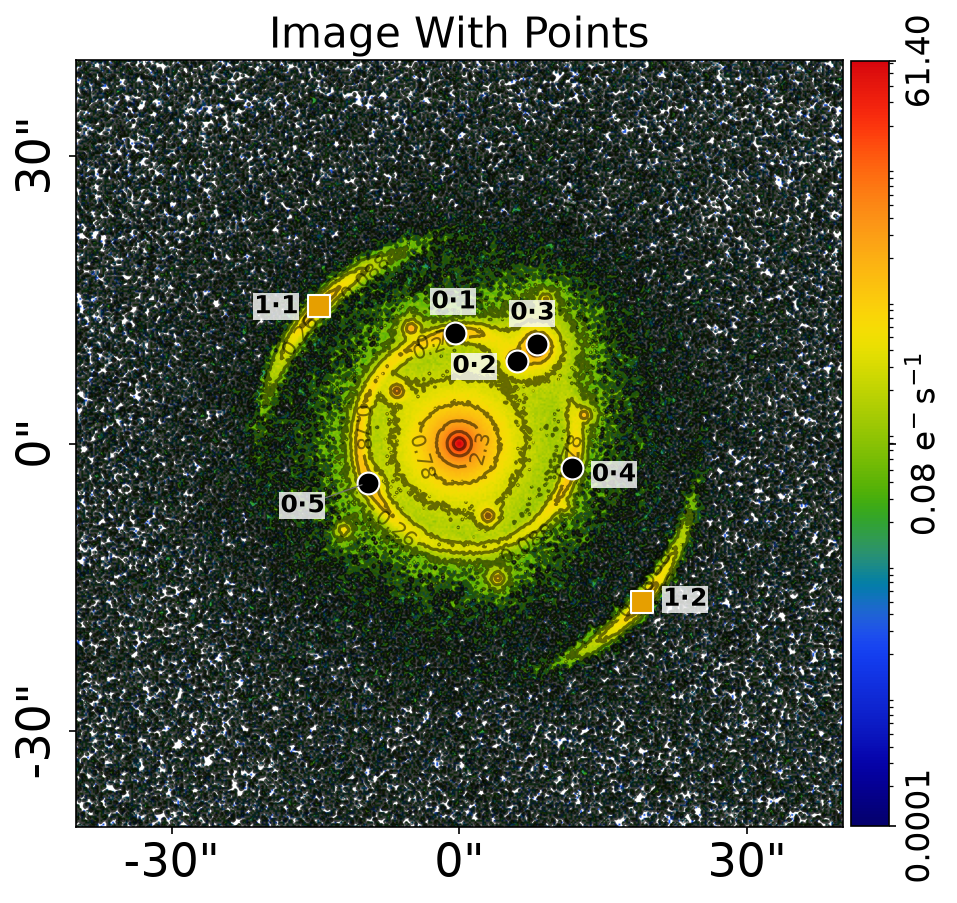
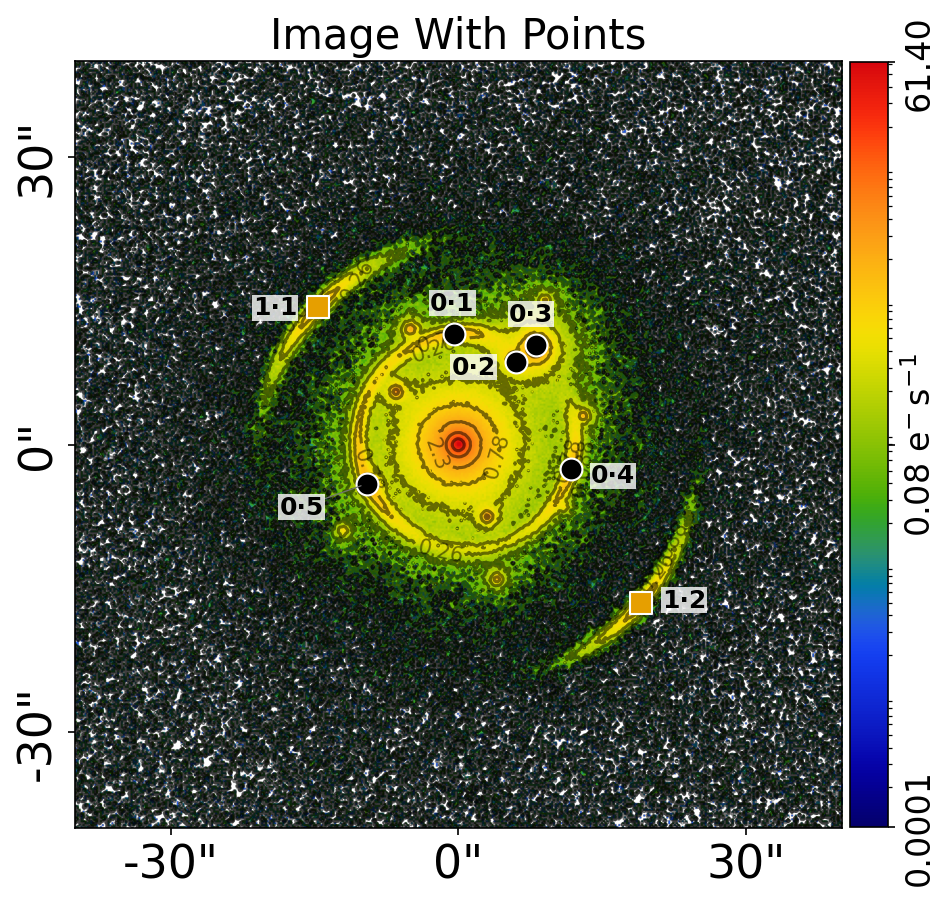
Render Simple cluster family fits in both planes

diff --git a/scripts/cluster/visualization.py b/scripts/cluster/visualization.py
@@ -16,14 +16,14 @@ Output tree (wiped at the start of every run)::
         image_with_points.png      <- every source's positions over the cluster image
         fit.png                    <- VisualizerPoint.visualize_combined: "Fit Positions" of
                                       every source, each source's critical curves at its own z
-        fit_per_image.png          <- one row per source: residual ranking (range shared by
-                                      both sources) / image-plane zoom / source plane
         fit_image_with_points.png  <- every source's positions and curves over the image
         point_0/ point_1/          <- each dataset's own figures (visualize_before_fit +
-                                      visualize): dataset.png, image_with_points.png, fit.png,
+                                      visualize): dataset.png, image_with_points.png,
                                       fit_per_image.png, fit_image_with_points.png and
                                       point_solver.png (the model's real multi-plane PointSolver
                                       refining onto this source's images)
+            fit.png                <- source-plane family fit from visualize_combined
+            fit_image_plane.png    <- image-plane family fit from visualize_combined
 
 The per-dataset ``visualize`` also writes the tracer and galaxy figures, which this repo does
 not track: they (and every other untracked file) are deleted, and ``dataset_point.png`` is
@@ -31,9 +31,11 @@ renamed ``dataset.png``.
 
 Dataset: ``dataset/cluster/simple`` (``point_0``: 5 images, ``point_1``: 2 images, 5 mas noise,
 and ``data.fits``: the cluster image, visualization only), from
-``scripts/misc/simulators/cluster.py``. The model is that simulator's TRUE model
-(``true_models/cluster.py``), fitted with the source-plane chi-squared
-(``FitPositionsSource``) the workspace cluster example uses, with free-centre point sources.
+``scripts/misc/simulators/cluster.py``. The model uses the simulator's lens and source galaxies
+(``true_models/cluster.py``) with the point_0 source y coordinate offset by 0.003 arcsec to show
+how the family figure diagnoses a small model error. The source-plane chi-squared
+(``FitPositionsSource``) matches the workspace cluster example. The image-plane family figures
+use ``FitPositionsImagePairRepeat``.
 
 Run from the repo root::
 
@@ -77,15 +79,16 @@ STEM = Path(__file__).stem
 dataset_path = ensure_dataset("cluster", workspace_root=REPO_ROOT)
 
 """
-__True Model__
+__Model__
 
-The simulator's galaxies, every parameter fixed: the prior-median instance IS the true model.
-Lens galaxies, scaling members and halo go in ``galaxies`` alongside the two sources.
+Lens galaxies, scaling members and halo go in ``galaxies`` alongside the two sources. Offset the
+first point source to demonstrate how a small model error can affect its images differently.
 """
+sources = tm.sources()
+y, x = sources[0].point_0.centre
+sources[0].point_0.centre = (y + 0.003, x)
 model = af.Collection(
-    galaxies=af.Collection(
-        *tm.main_lenses(), *tm.scaling_galaxies(), tm.host_halo(), *tm.sources()
-    ),
+    galaxies=af.Collection(*tm.main_lenses(), *tm.scaling_galaxies(), tm.host_halo(), *sources),
 )
 instance = model.instance_from_prior_medians()
 
@@ -177,10 +180,41 @@ VisualizerPoint.visualize_combined(
 keep_dataset_and_fit(
     image_path,
     dataset_png="dataset_point.png",
-    extra_pngs=("fit_per_image.png", "image_with_points.png", "fit_image_with_points.png"),
+    extra_pngs=("image_with_points.png", "fit_image_with_points.png"),
     keep_dirs=tuple(analysis.dataset.name for analysis in analyses),
 )
-print(f"visualize [all sources]: {time.perf_counter() - t0:.1f}s")
+print(f"visualize [all sources, source plane]: {time.perf_counter() - t0:.1f}s")
+
+"""
+__Image-Plane Family Fits__
+
+Run the same full combined visualizer with the image-plane likelihood. Keep its family figures
+alongside the source-plane ones and leave the rest of the second run under the scratch output.
+"""
+t0 = time.perf_counter()
+image_plane_analyses = [
+    al.AnalysisPoint(
+        dataset=analysis.dataset,
+        solver=solver,
+        image=image,
+        fit_positions_cls=al.FitPositionsImagePairRepeat,
+        use_jax=False,
+    )
+    for analysis in analyses
+]
+image_plane_path = scratch_root / "image_plane"
+image_plane_path.mkdir()
+VisualizerPoint.visualize_combined(
+    analyses=image_plane_analyses,
+    paths=SimpleNamespace(image_path=image_plane_path, output_path=image_plane_path),
+    instance=[instance] * len(image_plane_analyses),
+    during_analysis=False,
+    quick_update=False,
+)
+for analysis in image_plane_analyses:
+    name = analysis.dataset.name
+    (image_plane_path / name / "fit.png").replace(image_path / name / "fit_image_plane.png")
+print(f"visualize [all sources, image plane]: {time.perf_counter() - t0:.1f}s")
 
 n_png = len(list(image_path.rglob("*.png")))
 print(f"Wrote {n_png} PNGs under {image_path.relative_to(REPO_ROOT)}")

diff --git a/gallery/gallery_build.py b/gallery/gallery_build.py
@@ -183,7 +183,8 @@ def render_markdown(manifest: dict, version: str) -> str:
         "",
         "Every figure below is what the PyAutoLens visualizers (`VisualizerImaging`, "
         "`VisualizerInterferometer`, `VisualizerPoint`, `VisualizerWeak`) write to a "
-        "model-fit's `image/` folder, rendered on this repo's datasets with the true model. "
+        "model-fit's `image/` folder, rendered on this repo's datasets from the simulation models. "
+        "For the Simple cluster, the first point source is offset by 0.003 arcsec in y. "
         "See [README.md](README.md) for how to improve one.",
         "",
         "## Contents",

diff --git a/AGENTS.md b/AGENTS.md
@@ -40,7 +40,8 @@ scripts/
   point_source_source_chi_squared/visualization.py  VisualizerPoint, FitPositionsSource
   multi_galaxy/visualization.py         VisualizerImaging, two lenses + extra galaxy
   group/visualization.py                VisualizerImaging, main lens + two extra galaxies
-  cluster/visualization.py              PlotterPoint, multi-plane: point_<i>/{dataset,fit}.png
+  cluster/visualization.py              VisualizerPoint, multi-plane: cluster overviews,
+                                        point_<i>/{dataset,fit,fit_image_plane}.png and extras
   multi_dataset/visualization.py        VisualizerImaging per band: <band>/{dataset,fit}.png
   weak/visualization.py                 VisualizerWeak
   misc/simulators/                      one simulator per dataset (regenerate datasets)
@@ -66,17 +67,14 @@ the full figure set. Every other producer tracks only `dataset.png` and `fit.png
 `visualize_before_fit`, then `visualize(..., quick_update=True)` with the true model, then
 `_viz_cli.keep_dataset_and_fit` renames the plotter's files where they differ (point:
 `dataset_point.png`; weak: `subplot_weak_dataset.png` / `subplot_fit_weak.png`) and deletes
-everything else. Producers with several sub-datasets write one pair per sub-folder
-(`multi_dataset` per band, the datacube per channel, `cluster` per point-source plane). Many
-of these figures are the galaxy-scale plots and look poor on point / cluster / weak data —
-bespoke figures are a follow-up through the Eyes dashboard. `cluster` calls the
-`PlotterPoint` methods directly instead of `VisualizerPoint`, skipping the untracked tracer and
-galaxy figures; the "Fit Positions" and point-solver panels still draw the critical curves, which
-cost ~2 min per dataset on the 15-galaxy multi-plane lens (the PNGs match the visualizer's).
-Every point-source `fit.png` (both chi-squared domains and `cluster`) also has a "Fit Source
-Plane" panel — the observed positions traced to the point's own plane — whose presentation
-follows the fit class: context only for an image-plane chi-squared, the chi-squared's own noise
-footprint and value for a source-plane chi-squared (PyAutoLens#789).
+everything else. Producers with several sub-datasets use sub-folders (`multi_dataset` per band,
+the datacube per channel, `cluster` per point-source family). The cluster producer keeps the
+combined figures and selected per-dataset figures from `VisualizerPoint`. Its full combined
+update writes `point_<i>/fit.png` for the source-plane likelihood. A second full update with
+the image-plane likelihood supplies `point_<i>/fit_image_plane.png`. Both use the simulator's
+model with a 0.003 arcsec y offset to the first point source. The family fit shows the observed
+positions traced to the point's own plane, along with per-image contributions from the
+likelihood used.
 
 **Point solver.** `point_source_image_chi_squared` (via `visualize(quick_update=False)`) and
 `cluster` (per plane) also keep `point_solver.png`: the model's real `PointSolver` refining onto
@@ -127,8 +125,8 @@ are no mtimes: it is reproducible from a checkout. `--check` ignores only `gener
 `rendered_with:`; any added, removed or byte-changed PNG fails it. It is the read contract of the
 PyAutoEyes dashboard — change its shape only together with the organ.
 
-Each producer pushes `config/` via `conf.instance.push` (the all-true `plots.yaml`), loads its
-tracked dataset, builds the simulator's **true model** (every parameter fixed), and calls
+Each producer pushes `config/` via `conf.instance.push`, loads its tracked dataset, builds a
+fixed model from the simulator's model, and calls
 `Visualizer*.visualize_before_fit` once and `Visualizer*.visualize` once per source type (the
 imaging and interferometer `visualization.py` producers; the others are described above)
 (`parametric/` = SersicCore, `delaunay/` = Overlay image-mesh + `Delaunay` + `ConstantSplit`),
@@ -154,8 +152,8 @@ The newer datasets are simulated here from `scripts/misc/simulators/<name>.py`, 
 from the matching `autolens_workspace` simulator (`datacube.py` from
 `interferometer/features/datacube/simulator.py`) and cut down to stay small, with seeded noise.
 Their true models live in `true_models/<name>.py`, imported by both the simulator and the
-producer, so the fit is always of the model that made the data. Each is registered in
-`_viz_cli.DATASETS` (directory, simulator stem, sentinel file); producers call
+producer. The cluster producer applies its diagnostic offset only to the fit model. Each
+dataset is registered in `_viz_cli.DATASETS` (directory, simulator stem, sentinel file); producers call
 `ensure_dataset("<key>")`, which simulates only when the sentinel is missing.
 
 ## Adding a domain

diff --git a/GALLERY.md b/GALLERY.md
@@ -2,14 +2,14 @@
 
 <!-- Generated by gallery/gallery_build.py from scripts/<domain>/images/. Do not edit by hand: rerun `bash gallery/gallery_run.sh --all`. -->
 
-Rendered with PyAutoLens `2026.10.23.1` · 85 figures.
+Rendered with PyAutoLens `2026.8.17.1` · 86 figures.
 
-Every figure below is what the PyAutoLens visualizers (`VisualizerImaging`, `VisualizerInterferometer`, `VisualizerPoint`, `VisualizerWeak`) write to a model-fit's `image/` folder, rendered on this repo's datasets with the true model. See [README.md](README.md) for how to improve one.
+Every figure below is what the PyAutoLens visualizers (`VisualizerImaging`, `VisualizerInterferometer`, `VisualizerPoint`, `VisualizerWeak`) write to a model-fit's `image/` folder, rendered on this repo's datasets from the simulation models. For the Simple cluster, the first point source is offset by 0.003 arcsec in y. See [README.md](README.md) for how to improve one.
 
 ## Contents
 
 - [cluster](#cluster)
-  - [visualization](#cluster--visualization) (17 figures)
+  - [visualization](#cluster--visualization) (18 figures)
     - [top level](#cluster--visualization--top-level)
     - [point_0/](#cluster--visualization--point_0)
     - [point_1/](#cluster--visualization--point_1)
@@ -67,10 +67,6 @@ Every figure below is what the PyAutoLens visualizers (`VisualizerImaging`, `Vis
 
 ![fit_image_with_points](scripts/cluster/images/visualization/fit_image_with_points.png)
 
-##### fit_per_image
-
-![fit_per_image](scripts/cluster/images/visualization/fit_per_image.png)
-
 ##### image_with_points
 
 ![image_with_points](scripts/cluster/images/visualization/image_with_points.png)
@@ -84,6 +80,10 @@ Every figure below is what the PyAutoLens visualizers (`VisualizerImaging`, `Vis
 ##### fit
 
 ![fit](scripts/cluster/images/visualization/point_0/fit.png)
+
+##### fit_image_plane
+
+![fit_image_plane](scripts/cluster/images/visualization/point_0/fit_image_plane.png)
 
 ##### fit_image_with_points
 
@@ -110,6 +110,10 @@ Every figure below is what the PyAutoLens visualizers (`VisualizerImaging`, `Vis
 ##### fit
 
 ![fit](scripts/cluster/images/visualization/point_1/fit.png)
+
+##### fit_image_plane
+
+![fit_image_plane](scripts/cluster/images/visualization/point_1/fit_image_plane.png)
 
 ##### fit_image_with_points
 

diff --git a/README.md b/README.md
@@ -34,16 +34,18 @@ mirroring `autolens_workspace` (a variant gets its own folder):
 | `point_source_source_chi_squared` | `visualization.py` | `dataset.png` + `fit.png` |
 | `multi_galaxy` | `visualization.py` | `dataset.png` + `fit.png` |
 | `group` | `visualization.py` | `dataset.png` + `fit.png` |
-| `cluster` | `visualization.py` | `dataset.png` + `fit.png` + `point_solver.png` per point-source plane |
+| `cluster` | `visualization.py` | Combined cluster figures and per-source figures, including `fit.png` (source-plane family fit), `fit_image_plane.png` and `point_solver.png` |
 | `multi_dataset` | `visualization.py` | `dataset.png` + `fit.png` per band |
 | `weak` | `visualization.py` | `dataset.png` + `fit.png` |
 
 Each figure is exactly what the visualizers (`VisualizerImaging`, `VisualizerInterferometer`,
-`VisualizerPoint`, `VisualizerWeak`) write to a fit's `image/` folder, rendered with the
-simulator's true model, with every toggle in
-[`config/visualize/plots.yaml`](config/visualize/plots.yaml) switched on. Imaging and
-interferometer render every figure; the other types track just the dataset and fit figures for
-now (several reuse galaxy-scale plots — bespoke point, cluster and weak figures come next).
+`VisualizerPoint`, `VisualizerWeak`) write to a fit's `image/` folder. The producers use the
+simulation models and enable the figure settings in
+[`config/visualize/plots.yaml`](config/visualize/plots.yaml). Imaging and
+interferometer render every figure. Other types track a subset, as shown above. The Simple
+cluster model offsets the `point_0` source y coordinate by 0.003 arcsec to demonstrate how a
+small model error affects the individual images. Both family figures use this same model and
+the tracked simulated positions.
 
 ## Render locally
 
